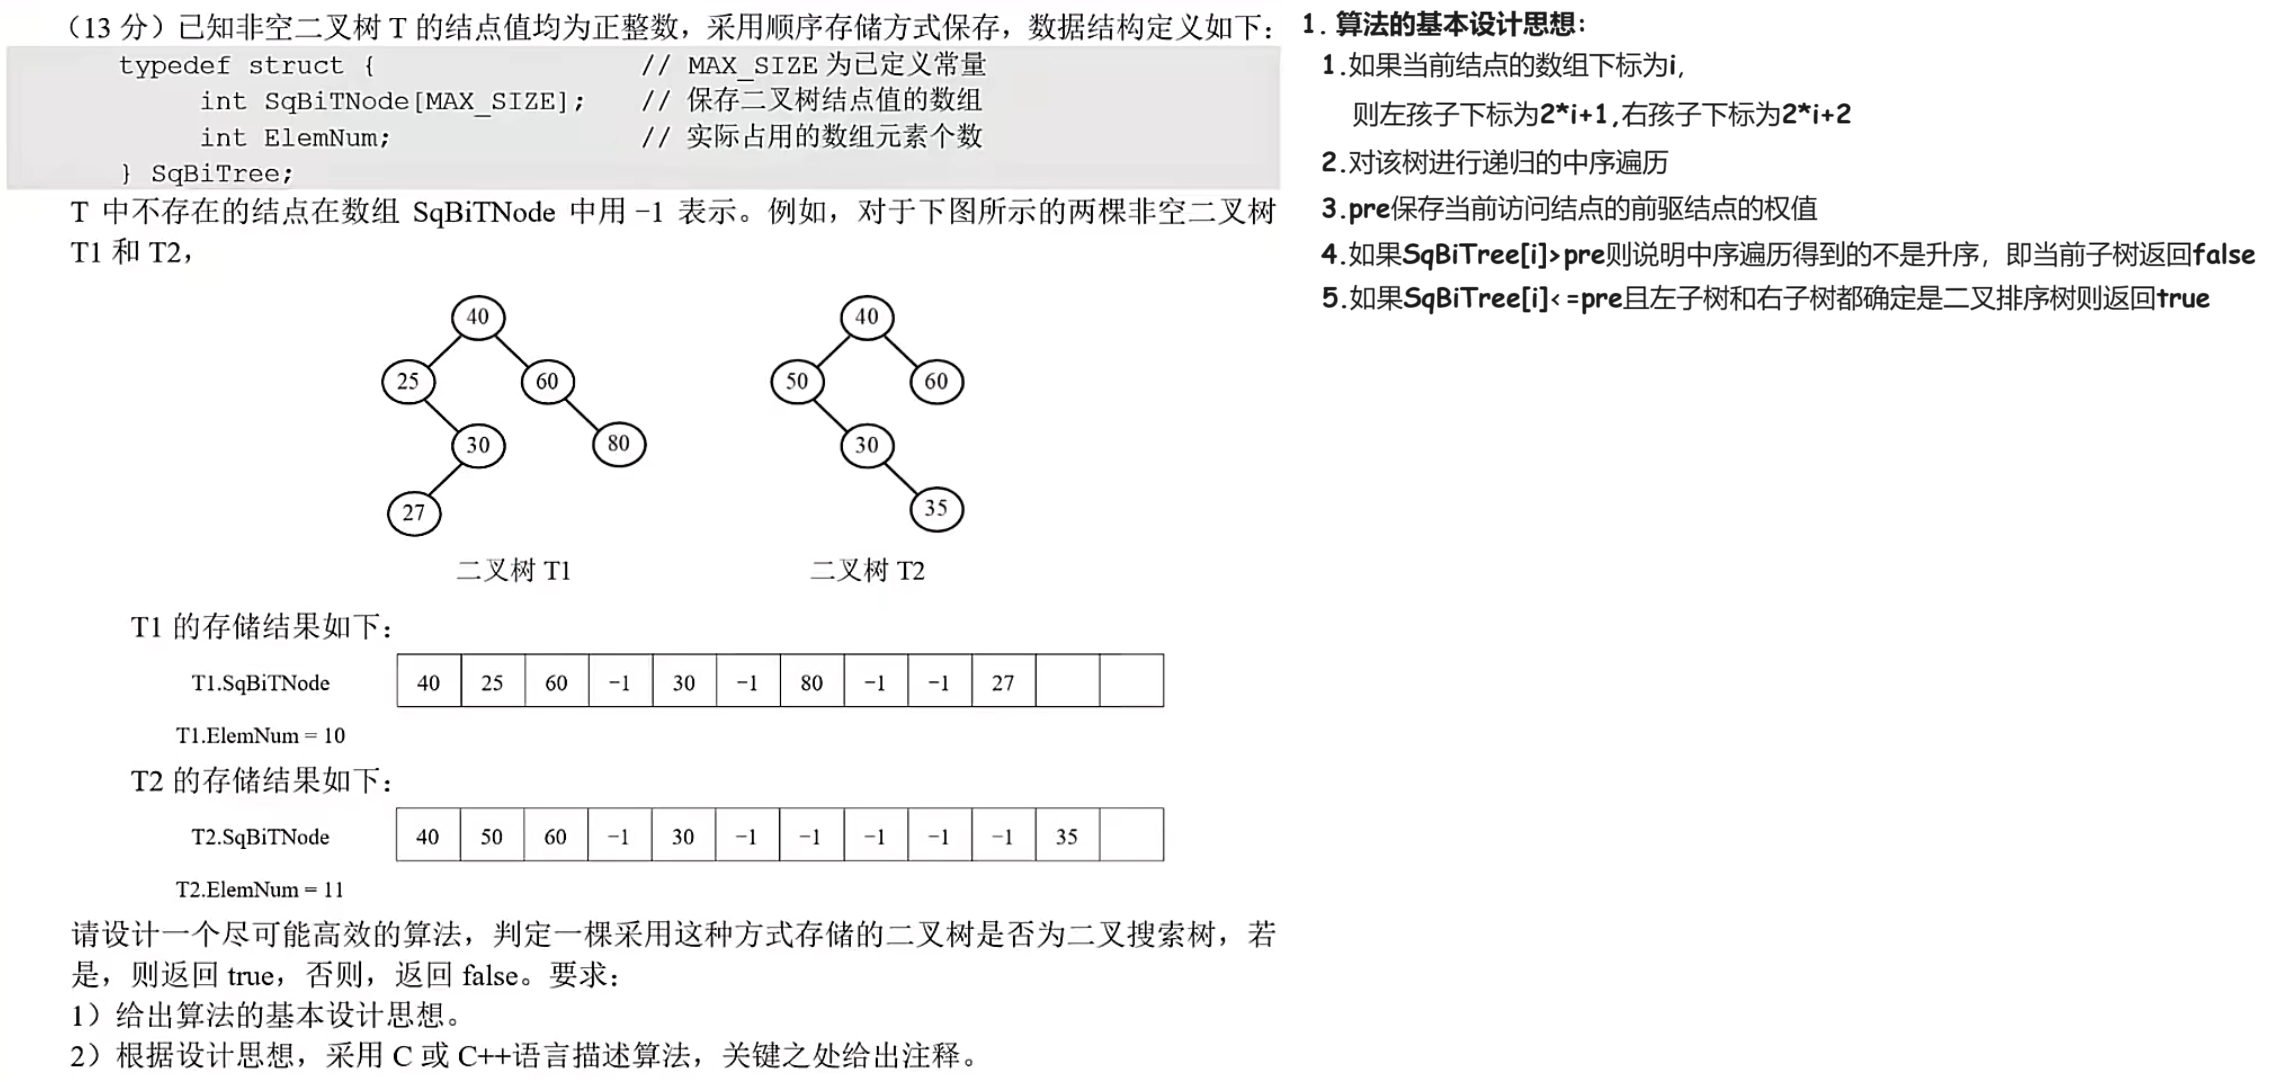
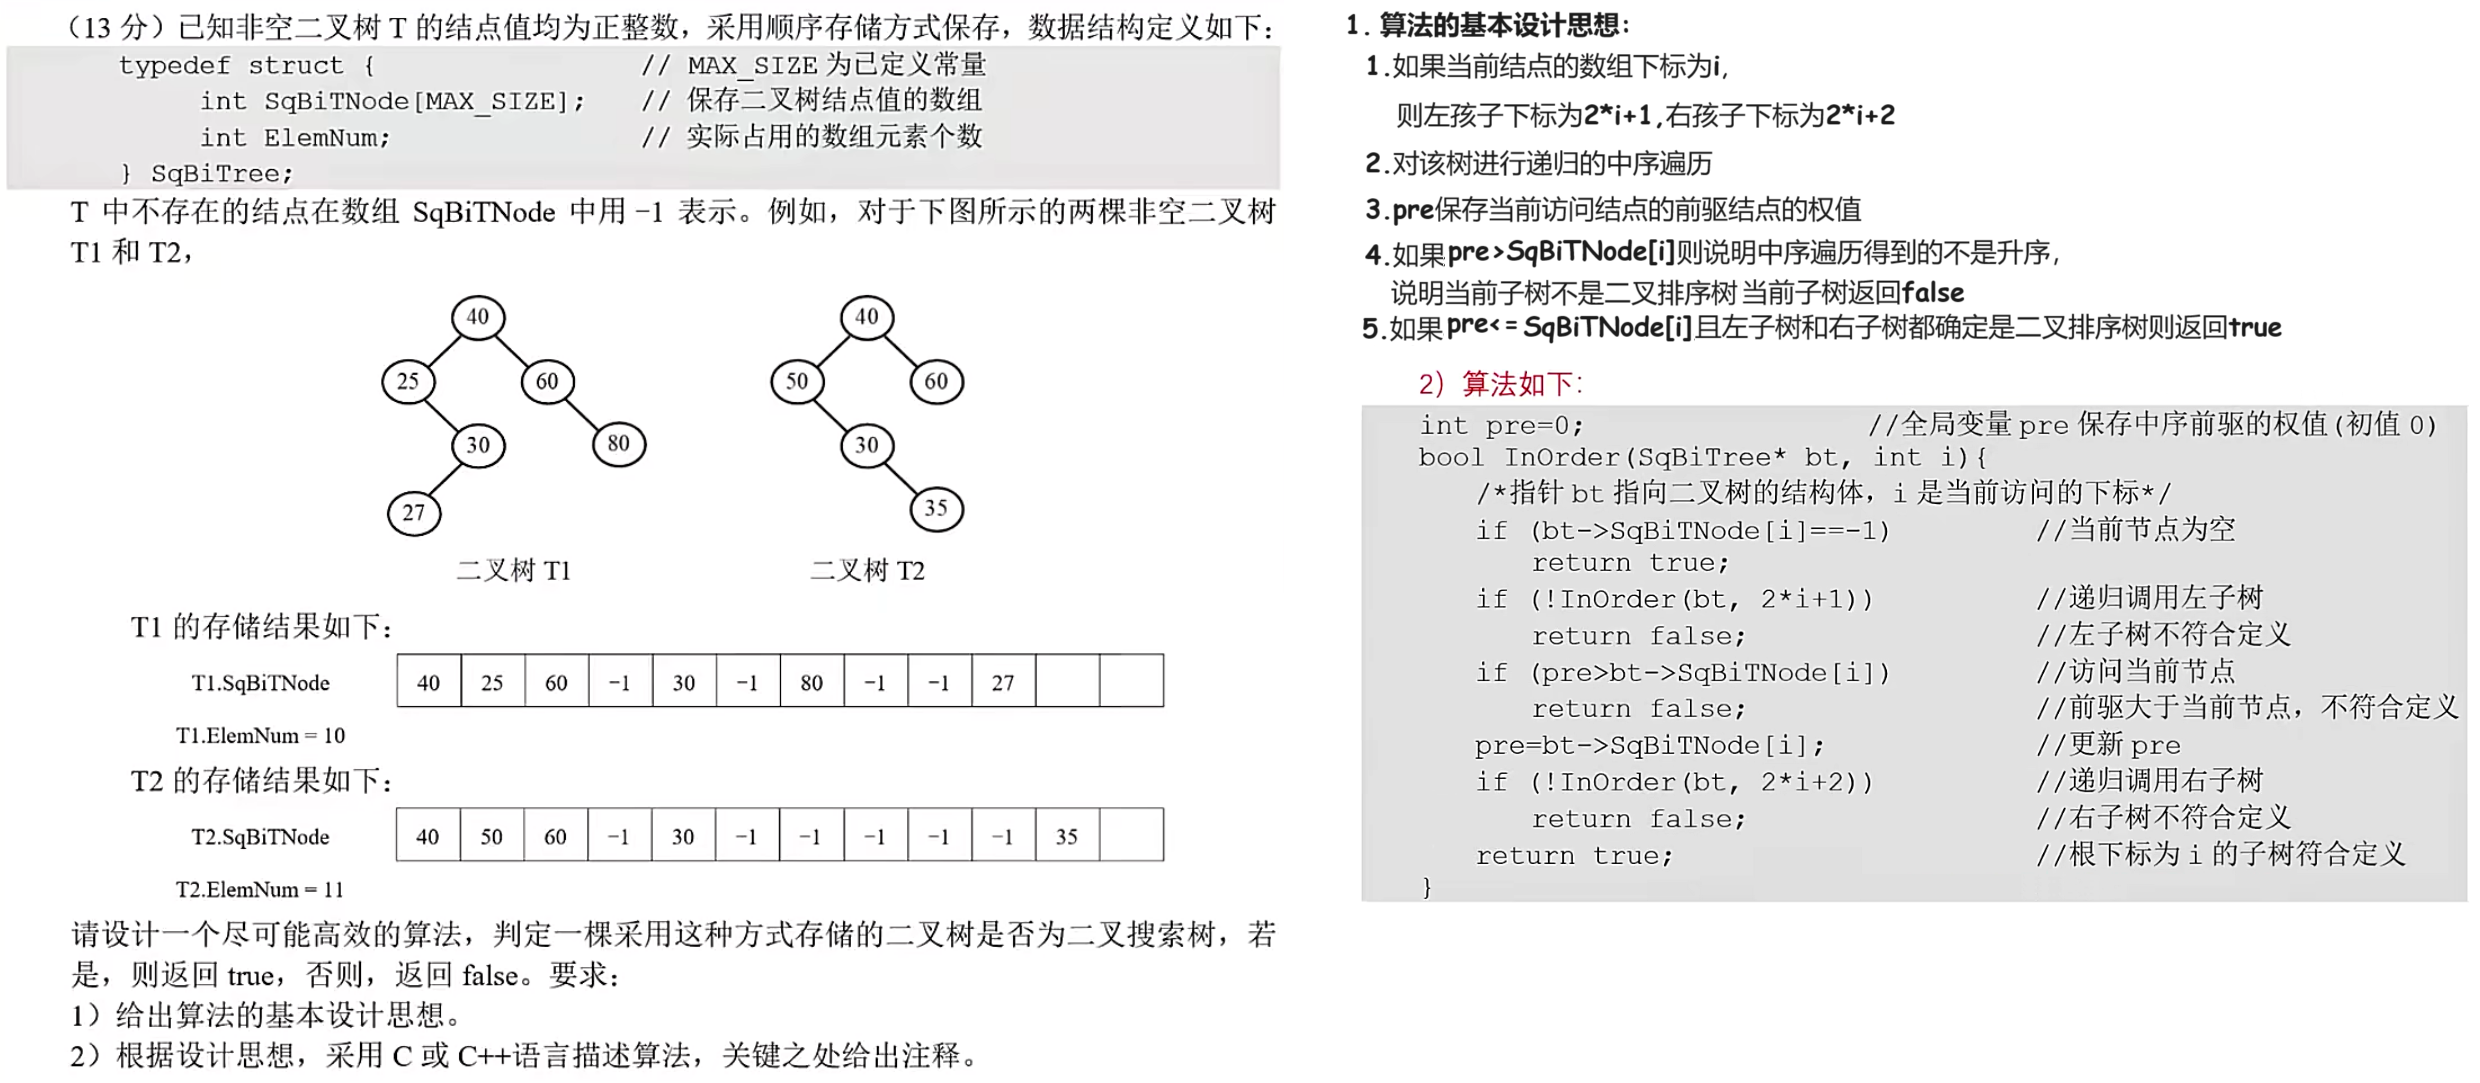
231018

diff --git a/04 每日一题/09 22 数据结构 二叉树前中后序遍历 231013 D29/01 Note.md b/04 每日一题/09 22 数据结构 二叉树前中后序遍历 231013 D29/01 Note.md
@@ -6,7 +6,7 @@
 
 # 答案
 
-<img src="https://cvp.oss-cn-shanghai.aliyuncs.com/picgo/202310181508590.png" alt="image-20231018150806432" style="zoom:50%;" />
+<img src="https://cvp.oss-cn-shanghai.aliyuncs.com/picgo/202310181535409.png" alt="image-20231018153553198" style="zoom:50%;" />
 
 
 
